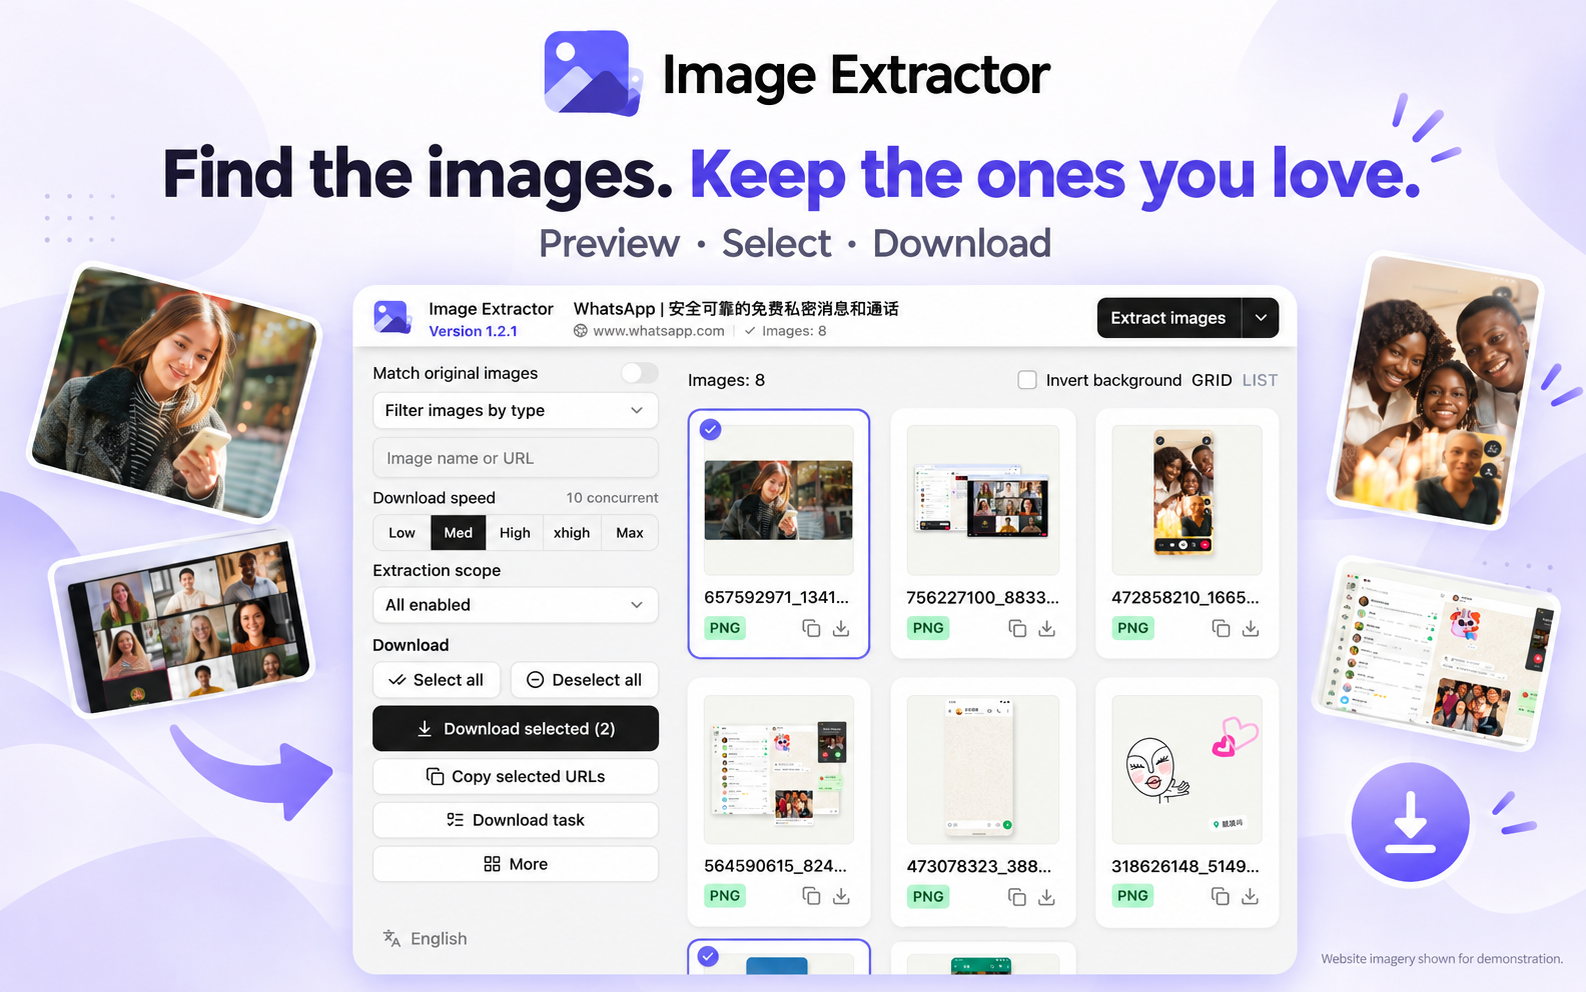
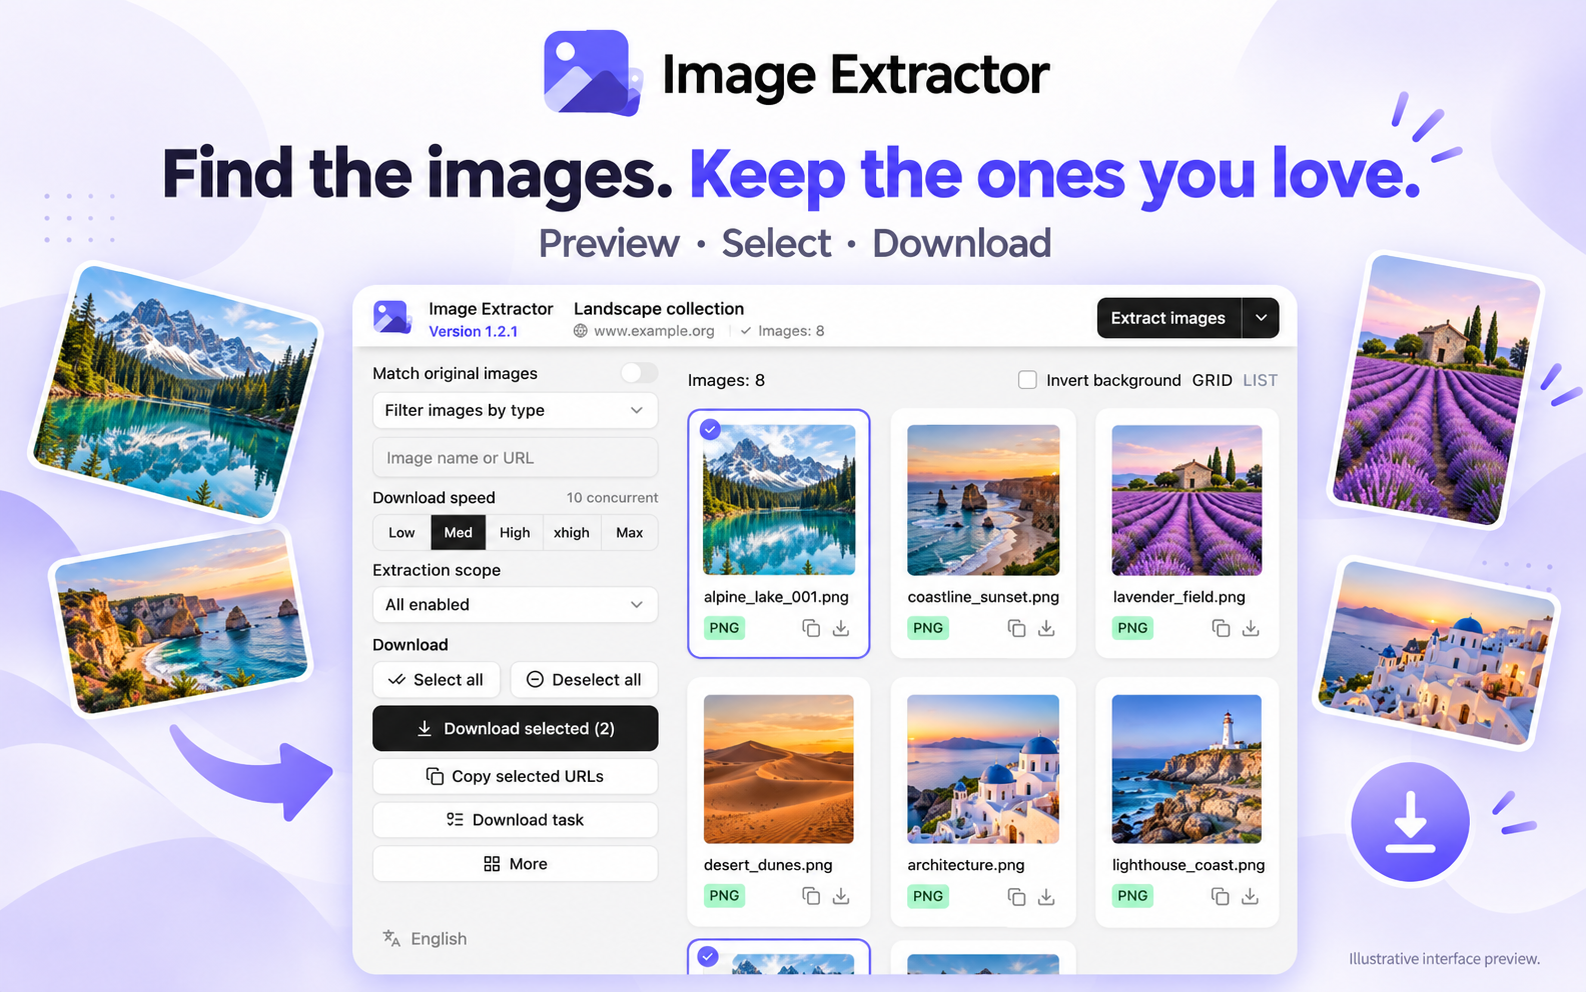
fix(docs): remove people from promotional artwork

diff --git a/docs/store-assets/README.md b/docs/store-assets/README.md
@@ -22,8 +22,8 @@ The existing 440×280 promotional tile remains available as `promo-440x280.png`,
 
 ## Generation direction
 
-- Browse graphic: preserve the popup reference; white and pale lavender, purple brand accents, headline “Find the images. Keep the ones you love.” and “Preview · Select · Download”.
+- Browse graphic: use a landscape-only illustrative popup, with no people, faces or avatars anywhere; white and pale lavender, purple brand accents, headline “Find the images. Keep the ones you love.” and “Preview · Select · Download”.
 - Task graphic: feature the download-manager reference; headline “Your downloads. In order.” and “Search tasks · Filter by status · Clear completed records”; identify the task records as examples.
 - Banner: “Image Extractor”, “Collect images. Simply.” and “Preview, select and save webpage images.”; floating landscape image cards, two purple selection marks and a download arrow; no ratings or unsupported claims.
 
-WhatsApp names and website imagery belong to their respective owners and are not relicensed under MIT. Their use as an example does not imply affiliation or endorsement. The banner's landscape artwork is generated. Store publication remains a separate action.
+WhatsApp names and website imagery belong to their respective owners and are not relicensed under MIT. Their use as an example does not imply affiliation or endorsement. The browsing graphic and banner use generated landscapes, with no people or faces. The download-management graphic contains no portraits. Store publication remains a separate action.
